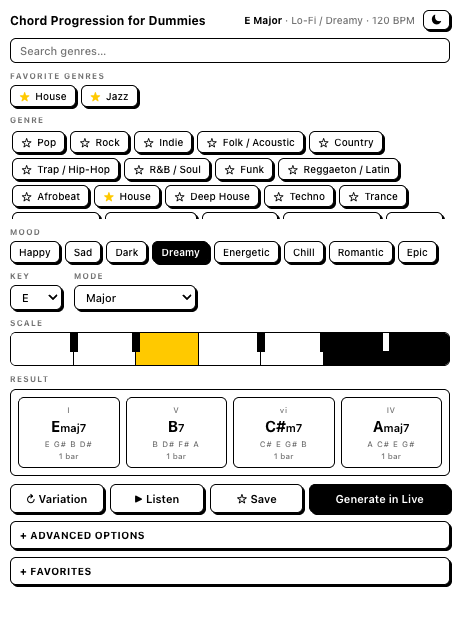
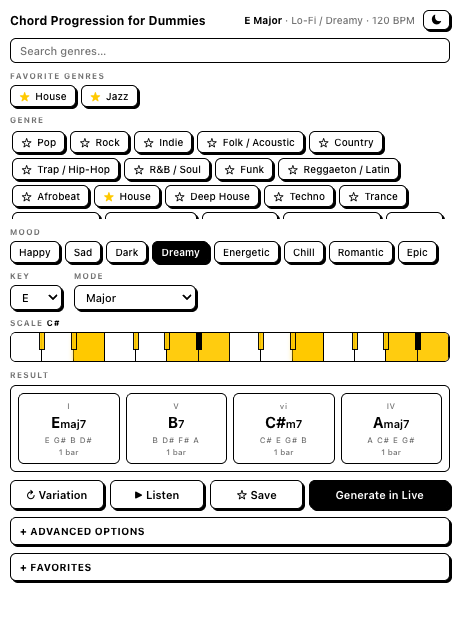
feat: full 2-octave scale piano — blinking yellow, hover note
Make the scale piano span two octaves, light scale notes in pure yellow
with a blink animation (root steady + glow), keep it small, and show the
note name on hover. Works in light and dark.

Changed region(s): [[0.0, 0.5, 1.0, 0.9375]]

diff --git a/src/interface.html b/src/interface.html
@@ -84,15 +84,16 @@
     .field { display: flex; flex-direction: column; gap: 4px; }
     select { height: 25px; padding: 0 7px; outline: none; }
 
-    /* Scale piano — lit keys = current key + mode; root in yellow */
-    .piano { position: relative; display: flex; height: 34px; border: 1px solid var(--ink); border-radius: var(--radius); overflow: hidden; }
+    /* Scale piano — 2 octaves; scale notes blink pure yellow, root steady yellow */
+    .piano { position: relative; display: flex; height: 30px; border: 1px solid var(--ink); border-radius: var(--radius); overflow: hidden; }
     .wkey { flex: 1; border-right: 1px solid var(--ink); background: var(--paper); }
     .wkey:last-child { border-right: none; }
-    .wkey.lit { background: var(--ink); }
-    .wkey.root { background: var(--star); }
-    .bkey { position: absolute; top: 0; width: 8px; height: 60%; transform: translateX(-50%); background: var(--paper); border: 1px solid var(--ink); border-top: none; z-index: 2; }
-    .bkey.lit { background: var(--ink); }
-    .bkey.root { background: var(--star); }
+    .bkey { position: absolute; top: 0; width: 6px; height: 62%; transform: translateX(-50%); background: var(--ink); border: 1px solid var(--ink); border-top: none; z-index: 2; }
+    .wkey.lit, .bkey.lit { background: var(--star); animation: blink 1.05s ease-in-out infinite; }
+    .wkey.root, .bkey.root { background: var(--star); animation: none; box-shadow: 0 0 5px var(--star); }
+    .wkey:hover, .bkey:hover { outline: 2px solid var(--star); outline-offset: -2px; cursor: pointer; }
+    @keyframes blink { 0%, 100% { opacity: 1; } 50% { opacity: 0.3; } }
+    #pianoNote { color: var(--ink); font-weight: 700; }
 
     /* Result cards — flat, boxed, no shadow */
     .result { background: var(--paper); border: 1px solid var(--ink); border-radius: var(--radius); padding: 7px; margin-top: 5px; }
@@ -167,7 +168,7 @@
     </div>
   </div>
 
-  <span class="label">Scale</span>
+  <span class="label">Scale <span id="pianoNote"></span></span>
   <div class="piano" id="piano"></div>
 
   <span class="label">Result</span>
@@ -596,24 +597,31 @@
     };
 
     function renderPiano() {
+      const OCTAVES = 2;
       const scale = new Set(MODES[modeName].map(i => (root + i) % 12));
       const rootPc = ((root % 12) + 12) % 12;
       const piano = document.getElementById("piano");
+      const noteLabel = document.getElementById("pianoNote");
       piano.innerHTML = "";
+
       const whites = [0, 2, 4, 5, 7, 9, 11];
-      whites.forEach(pc => {
+      const blacks = [[1, 1], [3, 2], [6, 4], [8, 5], [10, 6]]; // [pitch class, white-boundary index]
+      const totalWhite = whites.length * OCTAVES;
+      const onHover = (pc) => () => { if (noteLabel) noteLabel.textContent = NOTE_NAMES[pc]; };
+
+      const addKey = (cls, pc, left) => {
         const k = document.createElement("div");
-        k.className = "wkey" + (scale.has(pc) ? " lit" : "") + (pc === rootPc ? " root" : "");
+        k.className = cls + (scale.has(pc) ? " lit" : "") + (pc === rootPc ? " root" : "");
+        k.title = NOTE_NAMES[pc];
+        if (left !== undefined) k.style.left = left + "%";
+        k.addEventListener("mouseenter", onHover(pc));
         piano.appendChild(k);
-      });
-      // [pitch class, white-boundary index] for the 5 black keys of an octave
-      const blacks = [[1, 1], [3, 2], [6, 4], [8, 5], [10, 6]];
-      blacks.forEach(([pc, b]) => {
-        const k = document.createElement("div");
-        k.className = "bkey" + (scale.has(pc) ? " lit" : "") + (pc === rootPc ? " root" : "");
-        k.style.left = (b * (100 / 7)) + "%";
-        piano.appendChild(k);
-      });
+      };
+
+      for (let o = 0; o < OCTAVES; o++) whites.forEach(pc => addKey("wkey", pc));
+      for (let o = 0; o < OCTAVES; o++) blacks.forEach(([pc, b]) => addKey("bkey", pc, (o * 7 + b) * (100 / totalWhite)));
+
+      piano.onmouseleave = () => { if (noteLabel) noteLabel.textContent = ""; };
     }
 
     function renderAll() {
